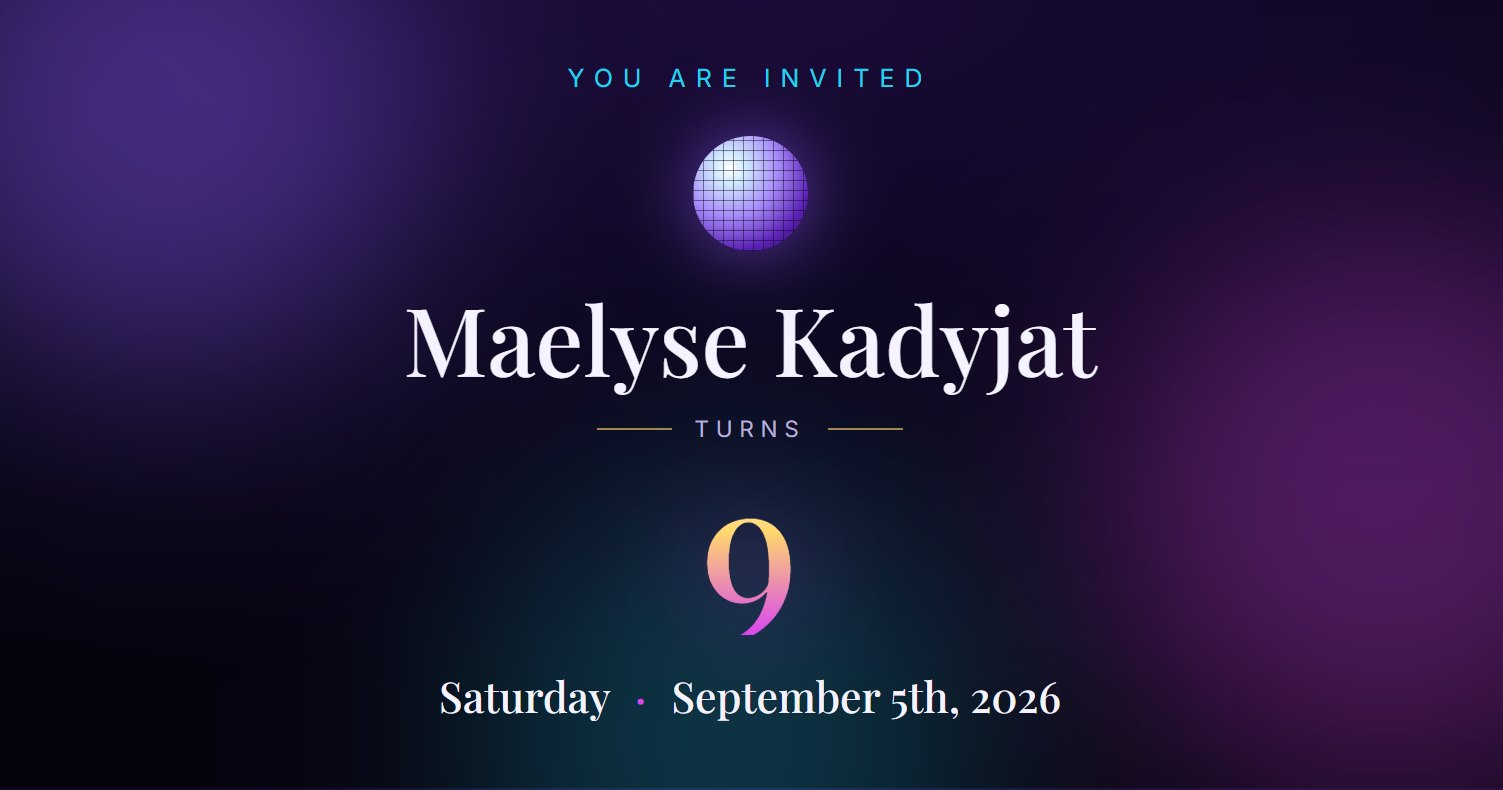
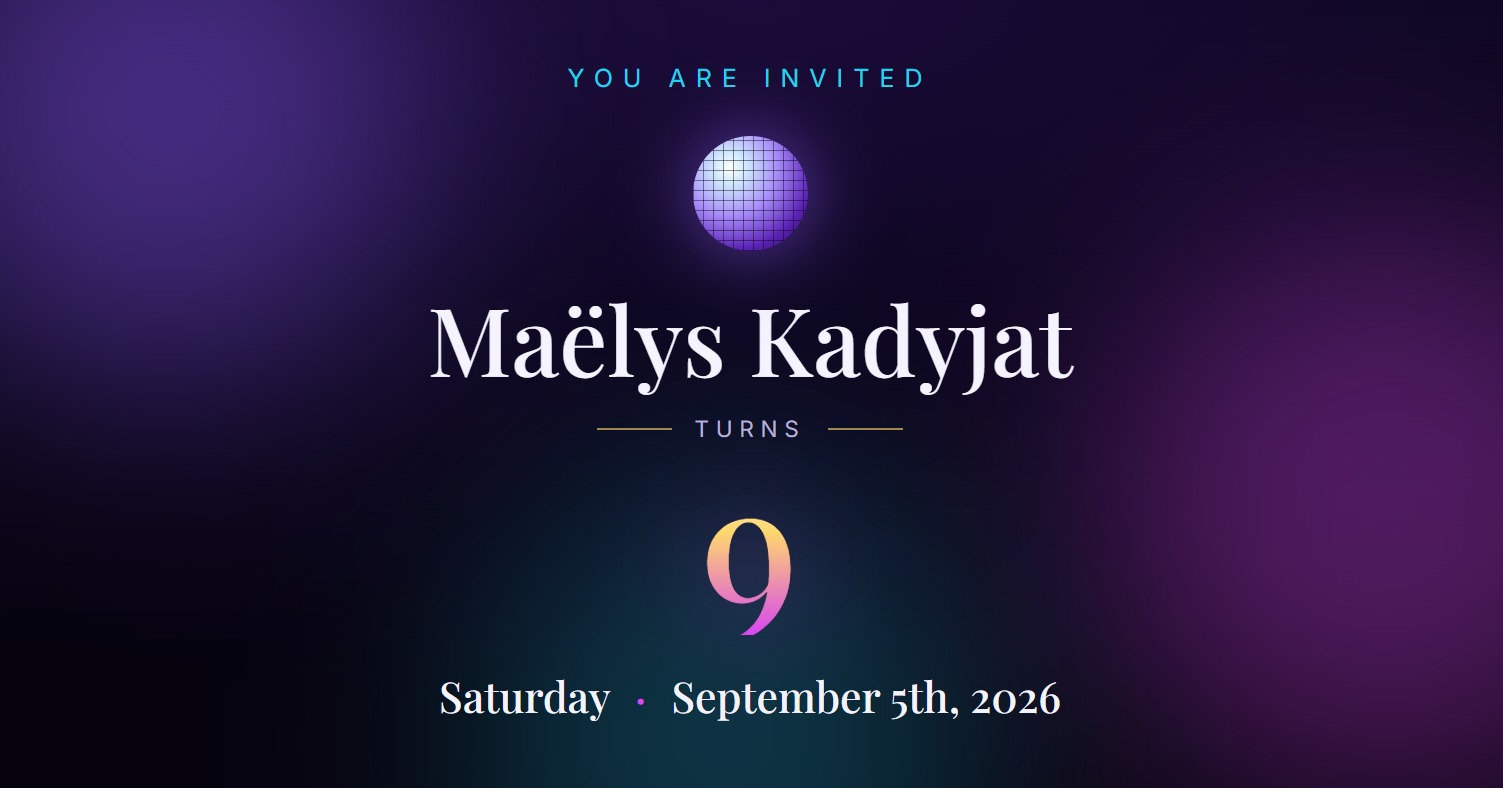
fix(contenu): le prenom s'ecrit Maëlys, pas Maelyse
Faute presente depuis la premiere ligne de contenu, donc depuis D-005, et
deja en ligne. Corrigee dans config.ts, index.html, le README et les
commentaires du code.

- public/og.jpeg regeneree depuis design/og-source.html : le nom y est grave
  en pixels, la faute serait restee visible dans l'apercu WhatsApp, c'est-a-dire
  a l'endroit le plus vu de tous
- og:image:height corrige de 790 a 788, la hauteur reelle de la capture
- le caractere est ecrit en forme precomposee (U+00EB) et non en e suivi d'un
  trema combinant, qui aurait compte pour deux lettres dans l'animation
  d'ouverture, qui assemble le prenom lettre par lettre

Volontairement inchanges : l'URL maelyse.vercel.app et le nom du depot, qui
sont des identifiants externes dont le renommage casserait les liens deja
partages, et la cle de stockage local maelyse-muted-v1, qu'aucun humain ne lit
et dont le renommage ferait oublier son reglage de son aux visiteurs.

Verifie a l'ecran en 390 px et 1280 px : le nom tient sur une ligne dans les
deux cas, le trema n'est pas rogne malgre un interligne a 1,05, 0 erreur
console. Build vert.

diff --git a/index.html b/index.html
@@ -8,17 +8,17 @@
     <meta name="viewport" content="width=device-width, initial-scale=1.0, viewport-fit=cover" />
     <meta name="theme-color" content="#06030F" />
 
-    <title>Maelyse turns 9 · You are invited</title>
-    <meta name="description" content="Maelyse Kadyjat is turning 9. Join us on Saturday, September 5th from 2 PM for swimming, pottery and cake." />
+    <title>Maëlys turns 9 · You are invited</title>
+    <meta name="description" content="Maëlys Kadyjat is turning 9. Join us on Saturday, September 5th from 2 PM for swimming, pottery and cake." />
 
     <meta property="og:type" content="website" />
     <meta property="og:url" content="https://maelyse.vercel.app/" />
-    <meta property="og:title" content="Maelyse turns 9 · You are invited" />
+    <meta property="og:title" content="Maëlys turns 9 · You are invited" />
     <meta property="og:description" content="Saturday, September 5th, from 2 PM. Swimming, pottery, cake and candles. Tap to open the invitation." />
     <meta property="og:image" content="https://maelyse.vercel.app/og.jpeg" />
     <meta property="og:image:type" content="image/jpeg" />
     <meta property="og:image:width" content="1503" />
-    <meta property="og:image:height" content="790" />
+    <meta property="og:image:height" content="788" />
     <meta name="twitter:card" content="summary_large_image" />
 
     <link rel="icon" type="image/svg+xml" href="/favicon.svg" />

diff --git a/src/App.tsx b/src/App.tsx
@@ -80,7 +80,7 @@ function Invitation() {
         <Hero />
 
         {/*
-          Il y avait ici un bandeau défilant qui répétait en boucle « Maelyse ·
+          Il y avait ici un bandeau défilant qui répétait en boucle « Maëlys ·
           turns 9 · September 5th · you are invited », c'est-à-dire exactement ce
           que le hero vient de dire, juste au-dessus. Retiré : c'est le motif qui
           signale une page générée plutôt qu'une page dessinée (D-031).

diff --git a/src/config.ts b/src/config.ts
@@ -50,9 +50,9 @@ export const palette = {
 
 export const party = {
   /** Prénom mis en avant, celui qui s'assemble à l'ouverture. */
-  firstName: 'Maelyse',
+  firstName: 'Maëlys',
   /** Nom complet, affiché une seule fois. */
-  fullName: 'Maelyse Kadyjat',
+  fullName: 'Maëlys Kadyjat',
   age: 9,
 
   /** Date et heure de la fête, en heure d'Abidjan (la Côte d'Ivoire est sur GMT). */

diff --git a/src/lib/sound.ts b/src/lib/sound.ts
@@ -44,7 +44,7 @@ const HAPPY_BIRTHDAY: readonly (readonly [number | null, number])[] = [
   [67, 0.5], [67, 0.5],
   [69, 1], [67, 1], [74, 1],
   [72, 2],
-  // « Happy birthday dear Maelyse »
+  // « Happy birthday dear Maëlys »
   [67, 0.5], [67, 0.5],
   [79, 1], [76, 1], [72, 1],
   [71, 1], [69, 1],

diff --git a/design/og-source.html b/design/og-source.html
@@ -117,7 +117,7 @@
         <div class="facets"></div>
       </div>
 
-      <h1>Maelyse Kadyjat</h1>
+      <h1>Maëlys Kadyjat</h1>
 
       <div class="turns">
         <span class="rule"></span>

diff --git a/README.md b/README.md
@@ -1,6 +1,6 @@
-# Invitation d'anniversaire - Maelyse Kadyjat
+# Invitation d'anniversaire - Maëlys Kadyjat
 
-Invitation en ligne pour les 9 ans de Maelyse, le samedi 5 septembre 2026 à Abidjan.
+Invitation en ligne pour les 9 ans de Maëlys, le samedi 5 septembre 2026 à Abidjan.
 Une page unique, en anglais, pensée pour être ouverte sur un téléphone depuis un lien WhatsApp.
 
 ## Stack
